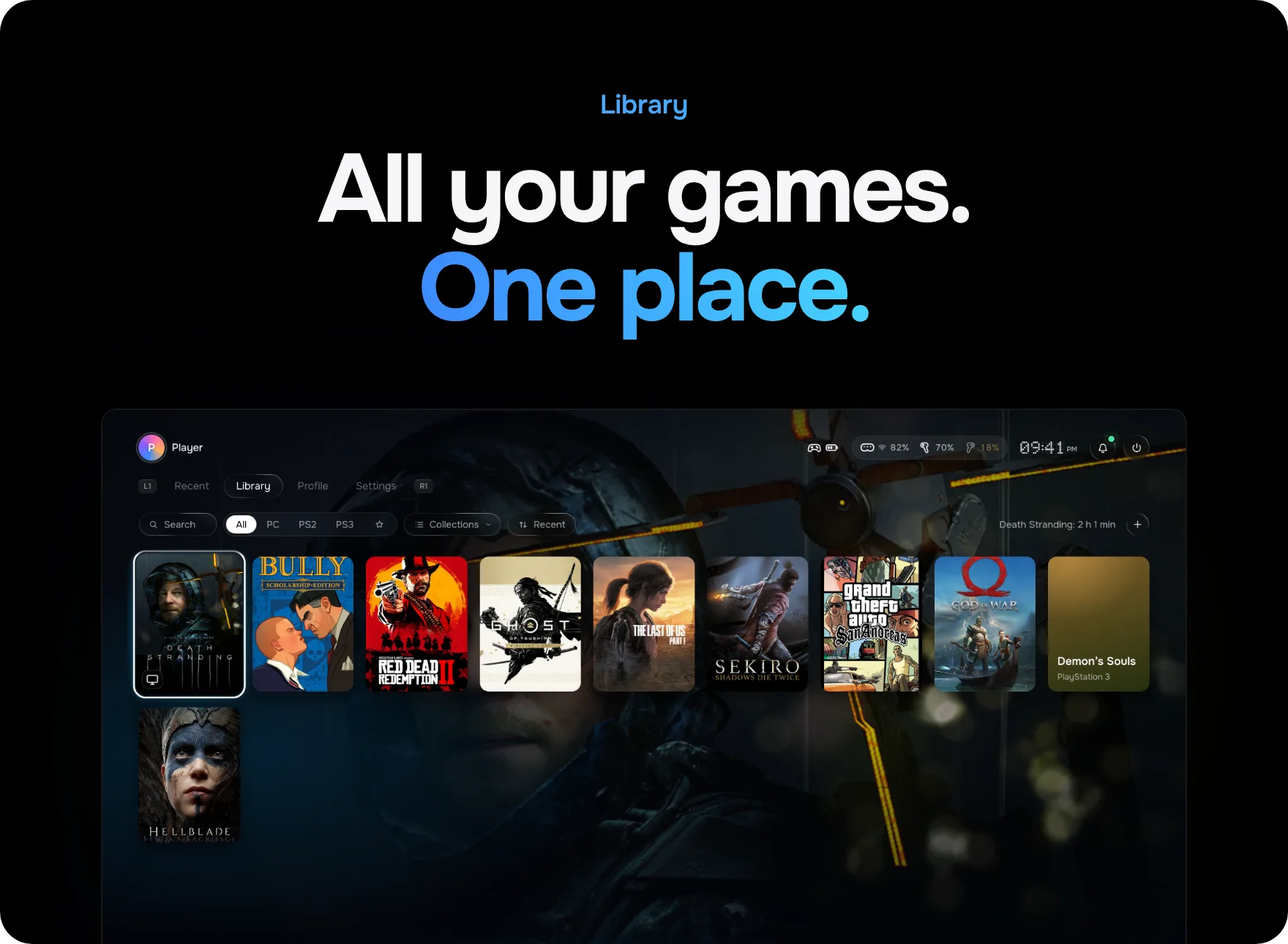
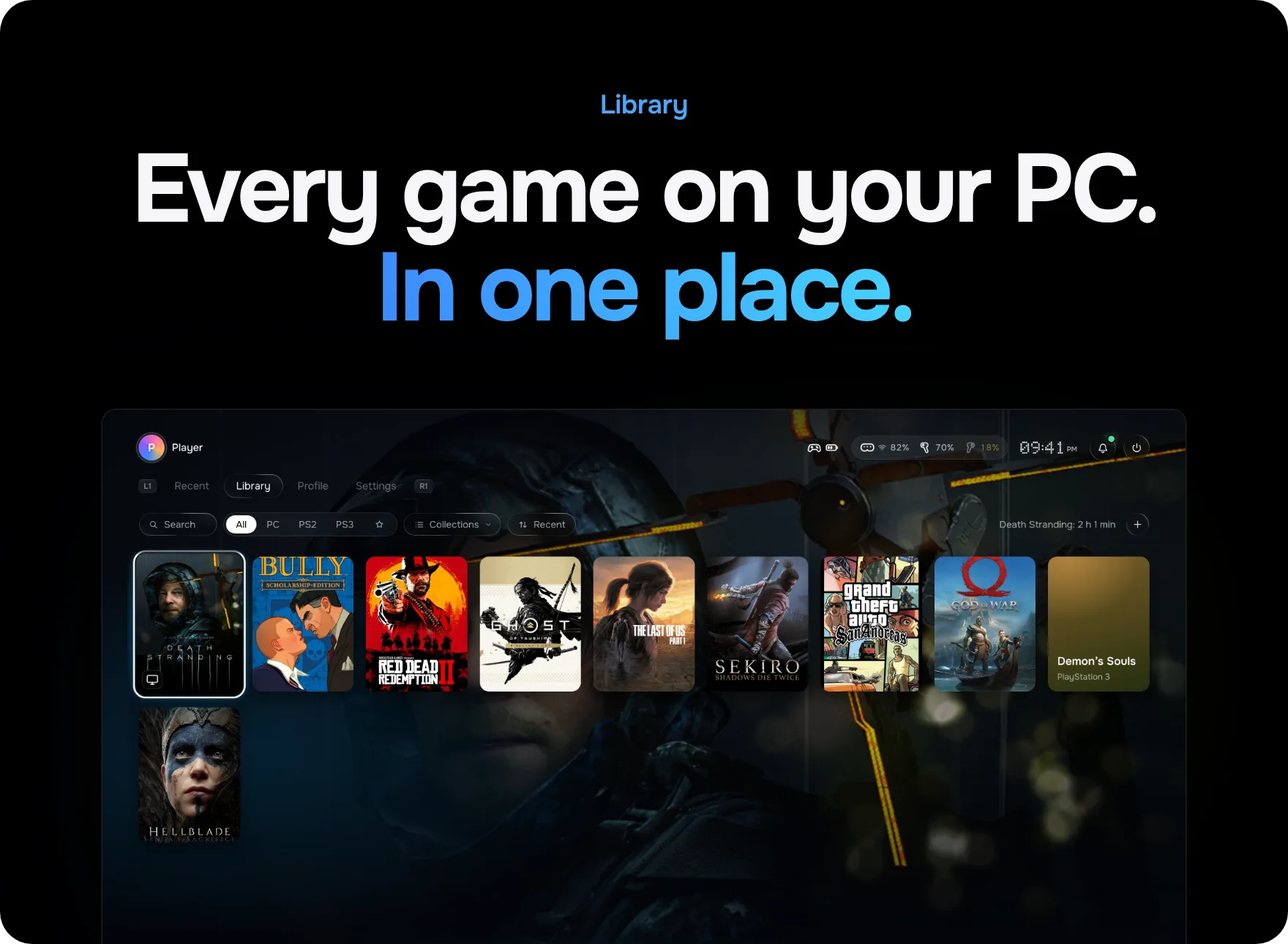
README built around PlayOS strengths: any controller without Big Picture, saves only in your own cloud, every game in one launcher, its own overlay, built-in VR, platinum from retro to AAA, and a community card; highlights now show the overlay, up to 30 save versions and 3 ways to sync; cloud and VR

Changed region(s): [[0.0938, 0.155, 0.9062, 0.3721]]

diff --git a/README.ru.md b/README.ru.md
@@ -31,29 +31,17 @@
 
 <a name="обзор"></a>
 <p align="center">
-  <img src="docs/assets/readme/ru/stats.webp" width="100%" alt="Коротко о главном. 5 видов игр в библиотеке: PC, Steam, PS2, PS3 и VR. 1 кнопка ставит игру на паузу: PS, Guide или Select + Start. 30 версий каждого сохранения хранятся в облаке. 3 способа синхронизации: Яндекс Диск, Google Drive или папка.">
+  <img src="docs/assets/readme/ru/stats.webp" width="100%" alt="Коротко о главном. 5 видов игр в библиотеке: PC, Steam, PS2, PS3 и VR. Собственный оверлей с удобными функциями поверх любой игры. До 30 версий каждого сохранения хранятся в вашем облаке. 3 возможности синхронизации: Яндекс Диск, Google Drive или папка.">
 </p>
 
 <br>
 
 <p align="center">
-  <img src="docs/assets/readme/ru/library.webp" width="100%" alt="Библиотека. Все ваши игры. В одном месте. Библиотека PlayOS с играми PC, PlayStation 2 и PlayStation 3.">
+  <img src="docs/assets/readme/ru/controls.webp" width="100%" alt="Геймпады. Любой геймпад. Без Big Picture. DualSense, DualShock 4, Xbox, 8BitDo, Nintendo, DirectInput, клавиатура и мышь.">
 </p>
 
 <p align="center">
-  Игры PC, Steam, PlayStation&nbsp;2, PlayStation&nbsp;3 и VR рядом друг с другом. <b>Игры Steam, образы дисков и список RPCS3 импортируются разом</b>, а для любой другой игры достаточно выбрать папку — PlayOS сам найдёт EXE. Обложки, фоны и логотипы загружаются сами, а <b>поиск, подборки и сортировка</b> — в одном движении стика. Даже удалить игру можно, не вставая с дивана.
-</p>
-
-<p align="center"><a href="docs/FAQ.md#игры">Подробнее об играх&nbsp;›</a></p>
-
-<br>
-
-<p align="center">
-  <img src="docs/assets/readme/ru/controls.webp" width="100%" alt="Управление. Создан для дивана. Не для стола. DualSense, DualShock 4, Xbox, 8BitDo, Nintendo, DirectInput, клавиатура и мышь.">
-</p>
-
-<p align="center">
-  DualSense, DualShock&nbsp;4, Xbox, 8BitDo, Nintendo и старые геймпады DirectInput — для необычных есть настройка кнопок. <b>Подсказки подстраиваются под геймпад в руках</b> и под то, что выбрано. Экранная клавиатура, вибрация в меню и прокрутка правым стиком уже на месте, а <b>мышь и клавиатура делят один фокус</b> с геймпадом.
+  <b>Любой геймпад работает во всём PlayOS и в оверлее — без Steam Big Picture.</b> DualSense, DualShock&nbsp;4, Xbox, 8BitDo, Nintendo и старые геймпады DirectInput — для необычных есть настройка кнопок. Подсказки подстраиваются под геймпад в руках, а экранная клавиатура, вибрация в меню и прокрутка правым стиком уже на месте. Мышь и клавиатура делят один фокус с геймпадом.
 </p>
 
 <p align="center"><a href="docs/FAQ.md#управление">Всё управление&nbsp;›</a></p>
@@ -61,33 +49,11 @@
 <br>
 
 <p align="center">
-  <img src="docs/assets/readme/ru/overlay.webp" width="100%" alt="Меню поверх игры. Нажмите PS. Игра подождёт. Оверлей PlayOS поверх игры PlayStation 2 на паузе с быстрыми сохранениями и пунктом управления.">
+  <img src="docs/assets/readme/ru/cloud.webp" width="100%" alt="Облачные сохранения. Ваши сохранения. Только в вашем облаке. Этот ПК и другой ПК синхронизируются через ваше собственное облако: Яндекс Диск, Google Drive или папку синхронизации. Без серверов PlayOS.">
 </p>
 
 <p align="center">
-  <b>Кнопка PS или Guide</b>, Select&nbsp;+&nbsp;Start или Ctrl&nbsp;+&nbsp;Alt&nbsp;+&nbsp;H ставят игру на паузу и открывают <b>быстрые сохранения со скриншотами</b>, время сессии, громкость, вывод звука, яркость и заряд геймпада. В PCSX2 сохранения попадают точно в нужный слот через PINE. Мешает в какой-то игре? Выключите меню только для неё.
-</p>
-
-<p align="center"><a href="docs/FAQ.md#геймпад-и-оверлей">Подробнее об оверлее&nbsp;›</a></p>
-
-<br>
-
-<p align="center">
-  <img src="docs/assets/readme/ru/vr.webp" width="100%" alt="VR. Наденьте шлем. И играйте. Meta Quest по Link и Air Link, заряд шлема и контроллеров в верхней панели.">
-</p>
-
-<p align="center">
-  Отметьте любую игру для PC как VR-игру и играйте на <b>Meta&nbsp;Quest по Link или Air&nbsp;Link</b>. PlayOS сам скачает OpenComposite и подготовит его перед каждым запуском, запомнит <b>чёткость, руки, вибрацию и режим совместимости</b> для каждой игры, а заряд шлема и контроллеров покажет прямо в верхней панели.
-</p>
-
-<br>
-
-<p align="center">
-  <img src="docs/assets/readme/ru/cloud.webp" width="100%" alt="Облачные сохранения. Ваши сохранения. На любом ПК. Яндекс Диск, Google Drive и папка синхронизации в настройках PlayOS.">
-</p>
-
-<p align="center">
-  Сохранения, библиотека, время в играх и профиль на <b>Яндекс Диске, Google Drive или в папке синхронизации</b>. Сохранения игр PC находятся по базе Ludusavi, хранится <b>до 30 версий</b> каждого, а если два ПК не согласны — выбираете вы. На новом компьютере всё возвращается, а можно перенести всё одним файлом <code>.playos</code>.
+  Сохранения игр PS2, PS3 и PC, а вместе с ними библиотека, время в играх и профиль хранятся <b>на вашем собственном Яндекс Диске, Google Drive или в папке синхронизации</b>. У PlayOS нет своих серверов, а на Яндекс Диске и Google Drive он видит только свою папку. Сохранения игр PC находятся по базе Ludusavi, хранится <b>до 30 версий</b> каждого, а если два ПК не согласны — выбираете вы. Игры Steam остаются в Steam Cloud.
 </p>
 
 <p align="center"><a href="docs/FAQ.md#облачные-сохранения">Подробнее об облаке&nbsp;›</a></p>
@@ -95,14 +61,60 @@
 <br>
 
 <p align="center">
-  <img src="docs/assets/readme/ru/profile.webp" width="100%" alt="Трофеи и время. Каждый час. Каждый трофей. Профиль PlayOS и страница игры с HowLongToBeat и историей сессий.">
+  <img src="docs/assets/readme/ru/library.webp" width="100%" alt="Библиотека. Все игры с компьютера. В одном месте. Библиотека PlayOS с играми PC, PlayStation 2 и PlayStation 3.">
 </p>
 
 <p align="center">
-  Каждая сессия на счету, даже через сторонние лаунчеры. На странице игры — <b>HowLongToBeat</b>, история сессий и активность за две недели. <b>RetroAchievements для PS2 и достижения Steam для PC</b>, в том числе в играх через эмуляторы Steam, появляются в момент получения, а в списке трофеев остаётся скриншот этого момента.
+  Игры PC, Steam, PlayStation&nbsp;2, PlayStation&nbsp;3 и VR рядом друг с другом в одном лаунчере. <b>Игры Steam, образы дисков и список RPCS3 импортируются разом</b>, а для любой другой игры достаточно выбрать папку — PlayOS сам найдёт EXE. Обложки, фоны и логотипы загружаются сами, а <b>поиск, подборки и сортировка</b> — в одном движении стика. Даже удалить игру можно, не вставая с дивана.
+</p>
+
+<p align="center"><a href="docs/FAQ.md#игры">Подробнее об играх&nbsp;›</a></p>
+
+<br>
+
+<p align="center">
+  <img src="docs/assets/readme/ru/overlay.webp" width="100%" alt="Собственный оверлей. Нажмите PS. Игра подождёт. Оверлей PlayOS поверх игры PlayStation 2 на паузе с быстрыми сохранениями и пунктом управления.">
+</p>
+
+<p align="center">
+  <b>Кнопка PS или Guide</b>, Select&nbsp;+&nbsp;Start или Ctrl&nbsp;+&nbsp;Alt&nbsp;+&nbsp;H ставят игру на паузу и открывают <b>быстрые сохранения со скриншотами</b>, время сессии, громкость, вывод звука, яркость и заряд геймпада. В PCSX2 сохранения попадают точно в нужный слот через PINE. Мешает в какой-то игре? Выключите оверлей только для неё.
+</p>
+
+<p align="center"><a href="docs/FAQ.md#геймпад-и-оверлей">Подробнее об оверлее&nbsp;›</a></p>
+
+<br>
+
+<p align="center">
+  <img src="docs/assets/readme/ru/vr.webp" width="100%" alt="Встроенный VR. Наденьте шлем. И играйте. Meta Quest по Link и Air Link, заряд шлема и контроллеров в верхней панели.">
+</p>
+
+<p align="center">
+  VR встроен прямо в PlayOS: отметьте любую игру для PC как VR-игру и играйте на <b>Meta&nbsp;Quest по Link или Air&nbsp;Link</b>. PlayOS сам скачает открытый рантайм OpenComposite и подготовит его перед каждым запуском, запомнит <b>чёткость, руки, вибрацию и режим совместимости</b> для каждой игры, а заряд шлема и контроллеров покажет прямо в верхней панели.
+</p>
+
+<br>
+
+<p align="center">
+  <img src="docs/assets/readme/ru/profile.webp" width="100%" alt="Трофеи. Выбейте платину. От ретро до AAA. Профиль PlayOS и страница игры с HowLongToBeat и историей сессий.">
+</p>
+
+<p align="center">
+  Охотитесь за платиной? <b>RetroAchievements приносят трофеи в классику PlayStation&nbsp;2</b>, а <b>достижения Steam — в игры для PC</b>, в том числе через эмуляторы Steam. Соберите все трофеи игры — и платина ваша. Трофеи появляются в момент получения, в списке остаётся скриншот этого момента, а каждая сессия идёт в общее время игры — с HowLongToBeat на странице игры.
 </p>
 
 <p align="center"><a href="docs/FAQ.md#трофеи">Подробнее о трофеях&nbsp;›</a></p>
+
+<br>
+
+<p align="center">
+  <img src="docs/assets/readme/ru/community.webp" width="100%" alt="Сообщество. PlayOS строите вы. Предложите идею. Ваша идея, обсуждаем, выходит в обновлении.">
+</p>
+
+<p align="center">
+  PlayOS — открытый проект, который растёт из пожеланий игроков. <b>Предложите идею в <a href="https://github.com/fakem1nk/PlayOS/discussions">Discussions</a></b> или сообщите об ошибке в <a href="https://github.com/fakem1nk/PlayOS/issues/new/choose">Issues</a> — она может появиться уже в следующем обновлении.
+</p>
+
+<p align="center"><a href="https://github.com/fakem1nk/PlayOS/issues/new/choose">Предложить идею&nbsp;›</a></p>
 
 <br>
 

diff --git a/README.md b/README.md
@@ -31,29 +31,17 @@
 
 <a name="overview"></a>
 <p align="center">
-  <img src="docs/assets/readme/en/stats.webp" width="100%" alt="The highlights. 5 kinds of games in one library: PC, Steam, PS2, PS3 and VR. 1 button pauses any game: PS, Guide or Select + Start. 30 versions of every save kept in the cloud. 3 ways to sync: Yandex Disk, Google Drive or a folder.">
+  <img src="docs/assets/readme/en/stats.webp" width="100%" alt="The highlights. 5 kinds of games in one library: PC, Steam, PS2, PS3 and VR. Its own overlay with handy tools over any game. Up to 30 versions of every save, kept in your cloud. 3 ways to sync: Yandex Disk, Google Drive or a folder.">
 </p>
 
 <br>
 
 <p align="center">
-  <img src="docs/assets/readme/en/library.webp" width="100%" alt="Library. All your games. One place. The PlayOS library with PC, PlayStation 2 and PlayStation 3 games.">
+  <img src="docs/assets/readme/en/controls.webp" width="100%" alt="Controllers. Any controller. No Big Picture. DualSense, DualShock 4, Xbox, 8BitDo, Nintendo, DirectInput, keyboard and mouse.">
 </p>
 
 <p align="center">
-  PC, Steam, PlayStation&nbsp;2, PlayStation&nbsp;3 and VR games side by side. <b>Steam games, disc images and the RPCS3 list import in one go</b>; for anything else, pick a folder and PlayOS finds the EXE. Covers, backgrounds and logos arrive on their own, and <b>search, collections and sorting</b> are a stick flick away. You can even uninstall a game without leaving the couch.
-</p>
-
-<p align="center"><a href="docs/FAQ.en.md#games">Learn more about games&nbsp;›</a></p>
-
-<br>
-
-<p align="center">
-  <img src="docs/assets/readme/en/controls.webp" width="100%" alt="Controls. Made for the couch. Not the desk. DualSense, DualShock 4, Xbox, 8BitDo, Nintendo, DirectInput, keyboard and mouse.">
-</p>
-
-<p align="center">
-  DualSense, DualShock&nbsp;4, Xbox, 8BitDo, Nintendo and older DirectInput pads, with a button mapper for the unusual ones. <b>Button hints follow the pad in your hands</b> and whatever is selected. An on-screen keyboard, menu vibration and right-stick scrolling are built in, and <b>the mouse and keyboard share one focus</b> with the controller.
+  <b>Every controller works across PlayOS and its overlay — no Steam Big Picture needed.</b> DualSense, DualShock&nbsp;4, Xbox, 8BitDo, Nintendo and older DirectInput pads, with a button mapper for the unusual ones. Button hints follow the pad in your hands, and an on-screen keyboard, menu vibration and right-stick scrolling are built in. The mouse and keyboard share one focus with the controller.
 </p>
 
 <p align="center"><a href="docs/FAQ.en.md#controls">See the controls&nbsp;›</a></p>
@@ -61,33 +49,11 @@
 <br>
 
 <p align="center">
-  <img src="docs/assets/readme/en/overlay.webp" width="100%" alt="In-game menu. Press PS. The game waits. The PlayOS overlay over a paused PlayStation 2 game with quick saves and the control center.">
+  <img src="docs/assets/readme/en/cloud.webp" width="100%" alt="Cloud saves. Your saves. Only in your cloud. This PC and another PC sync through your own cloud: Yandex Disk, Google Drive or a sync folder. No PlayOS servers.">
 </p>
 
 <p align="center">
-  The <b>PS or Guide button</b>, Select&nbsp;+&nbsp;Start or Ctrl&nbsp;+&nbsp;Alt&nbsp;+&nbsp;H pauses the game and opens <b>quick saves with screenshots</b>, session time, volume, audio output, brightness and controller battery. PCSX2 saves land in the right slot over PINE. Don't want the menu in a particular game? Turn it off just there.
-</p>
-
-<p align="center"><a href="docs/FAQ.en.md#controller-and-overlay">Learn more about the overlay&nbsp;›</a></p>
-
-<br>
-
-<p align="center">
-  <img src="docs/assets/readme/en/vr.webp" width="100%" alt="VR. Put it on. Press play. Meta Quest over Link and Air Link, with headset and controller battery in the top bar.">
-</p>
-
-<p align="center">
-  Mark any PC game as a VR game and play it on <b>Meta&nbsp;Quest over Link or Air&nbsp;Link</b>. PlayOS downloads OpenComposite and prepares it before every launch, remembers <b>sharpness, hands, vibration and compatibility mode</b> for each game, and shows the headset and controller battery right in the top bar.
-</p>
-
-<br>
-
-<p align="center">
-  <img src="docs/assets/readme/en/cloud.webp" width="100%" alt="Cloud saves. Your saves. On every PC. Yandex Disk, Google Drive and sync folder in the PlayOS settings.">
-</p>
-
-<p align="center">
-  Saves, library, play time and profile on <b>Yandex Disk, Google Drive or a sync folder</b>. PC saves are found through the Ludusavi database, <b>up to 30 versions</b> of each are kept, and when two PCs disagree, you choose. On a new PC everything comes back — or move it all with a single <code>.playos</code> backup file.
+  Saves of PS2, PS3 and PC games, along with your library, play time and profile, go to <b>your own Yandex Disk, Google Drive or sync folder</b>. PlayOS has no servers of its own, and on Yandex Disk and Google Drive it can only see its own folder. PC saves are found through the Ludusavi database, <b>up to 30 versions</b> of each are kept, and when two PCs disagree, you choose. Steam games stay with Steam Cloud.
 </p>
 
 <p align="center"><a href="docs/FAQ.en.md#cloud-saves">Learn more about cloud saves&nbsp;›</a></p>
@@ -95,14 +61,60 @@
 <br>
 
 <p align="center">
-  <img src="docs/assets/readme/en/profile.webp" width="100%" alt="Trophies and play time. Every hour. Every trophy. The PlayOS profile and a game page with HowLongToBeat and session history.">
+  <img src="docs/assets/readme/en/library.webp" width="100%" alt="Library. Every game on your PC. In one place. The PlayOS library with PC, PlayStation 2 and PlayStation 3 games.">
 </p>
 
 <p align="center">
-  Every session counts, even through third-party launchers. The game page shows <b>HowLongToBeat</b>, session history and two weeks of activity. <b>RetroAchievements for PS2 and Steam achievements for PC</b> — including games on Steam emulators — pop up the moment they unlock, and the trophy list keeps a screenshot of that moment.
+  PC, Steam, PlayStation&nbsp;2, PlayStation&nbsp;3 and VR games side by side in one launcher. <b>Steam games, disc images and the RPCS3 list import in one go</b>; for anything else, pick a folder and PlayOS finds the EXE. Covers, backgrounds and logos arrive on their own, and <b>search, collections and sorting</b> are a stick flick away. You can even uninstall a game without leaving the couch.
+</p>
+
+<p align="center"><a href="docs/FAQ.en.md#games">Learn more about games&nbsp;›</a></p>
+
+<br>
+
+<p align="center">
+  <img src="docs/assets/readme/en/overlay.webp" width="100%" alt="Its own overlay. Press PS. The game waits. The PlayOS overlay over a paused PlayStation 2 game with quick saves and the control center.">
+</p>
+
+<p align="center">
+  The <b>PS or Guide button</b>, Select&nbsp;+&nbsp;Start or Ctrl&nbsp;+&nbsp;Alt&nbsp;+&nbsp;H pauses the game and opens <b>quick saves with screenshots</b>, session time, volume, audio output, brightness and controller battery. PCSX2 saves land in the right slot over PINE. Don't want the overlay in a particular game? Turn it off just there.
+</p>
+
+<p align="center"><a href="docs/FAQ.en.md#controller-and-overlay">Learn more about the overlay&nbsp;›</a></p>
+
+<br>
+
+<p align="center">
+  <img src="docs/assets/readme/en/vr.webp" width="100%" alt="Built-in VR. Put it on. Press play. Meta Quest over Link and Air Link, with headset and controller battery in the top bar.">
+</p>
+
+<p align="center">
+  VR is built into PlayOS: mark any PC game as a VR game and play it on <b>Meta&nbsp;Quest over Link or Air&nbsp;Link</b>. PlayOS downloads the open-source OpenComposite runtime and prepares it before every launch, remembers <b>sharpness, hands, vibration and compatibility mode</b> for each game, and shows the headset and controller battery right in the top bar.
+</p>
+
+<br>
+
+<p align="center">
+  <img src="docs/assets/readme/en/profile.webp" width="100%" alt="Trophies. Go for platinum. From retro to AAA. The PlayOS profile and a game page with HowLongToBeat and session history.">
+</p>
+
+<p align="center">
+  Chasing a platinum? <b>RetroAchievements bring trophies to PlayStation&nbsp;2 classics</b>, and <b>Steam achievements cover PC games</b>, including games running on Steam emulators. Collect every trophy in a game and its platinum is yours. Trophies pop up the moment they unlock, the trophy list keeps a screenshot of that moment, and every session counts toward your play time, with HowLongToBeat on the game page.
 </p>
 
 <p align="center"><a href="docs/FAQ.en.md#trophies">Learn more about trophies&nbsp;›</a></p>
+
+<br>
+
+<p align="center">
+  <img src="docs/assets/readme/en/community.webp" width="100%" alt="Community. Built by players. Share your idea. Your idea, we talk it over, it ships.">
+</p>
+
+<p align="center">
+  PlayOS is open source and grows from what players ask for. <b>Share an idea in <a href="https://github.com/fakem1nk/PlayOS/discussions">Discussions</a></b> or report a bug in <a href="https://github.com/fakem1nk/PlayOS/issues/new/choose">Issues</a> — it might land in the very next update.
+</p>
+
+<p align="center"><a href="https://github.com/fakem1nk/PlayOS/issues/new/choose">Suggest an idea&nbsp;›</a></p>
 
 <br>
 
